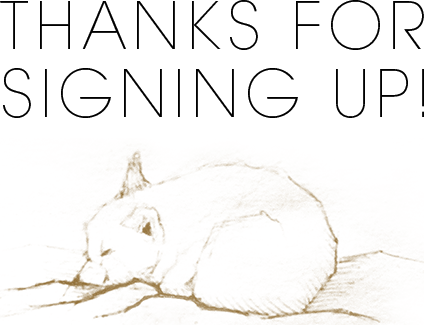
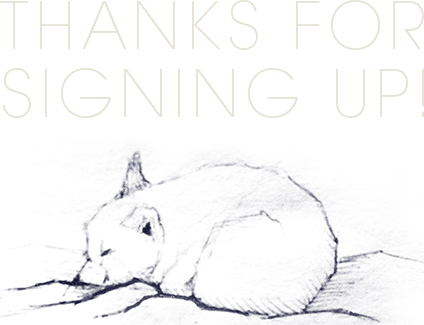
I blue it

diff --git a/app/assets/stylesheets/spash_page.scss b/app/assets/stylesheets/spash_page.scss
@@ -10,7 +10,7 @@ body {
   section.hero {
     height: 100vh;
     width: 100%;
-    background:#e6e2d6;
+    background:#042b4a;
     @media(min-width: 768px){
       display: flex;
     }
